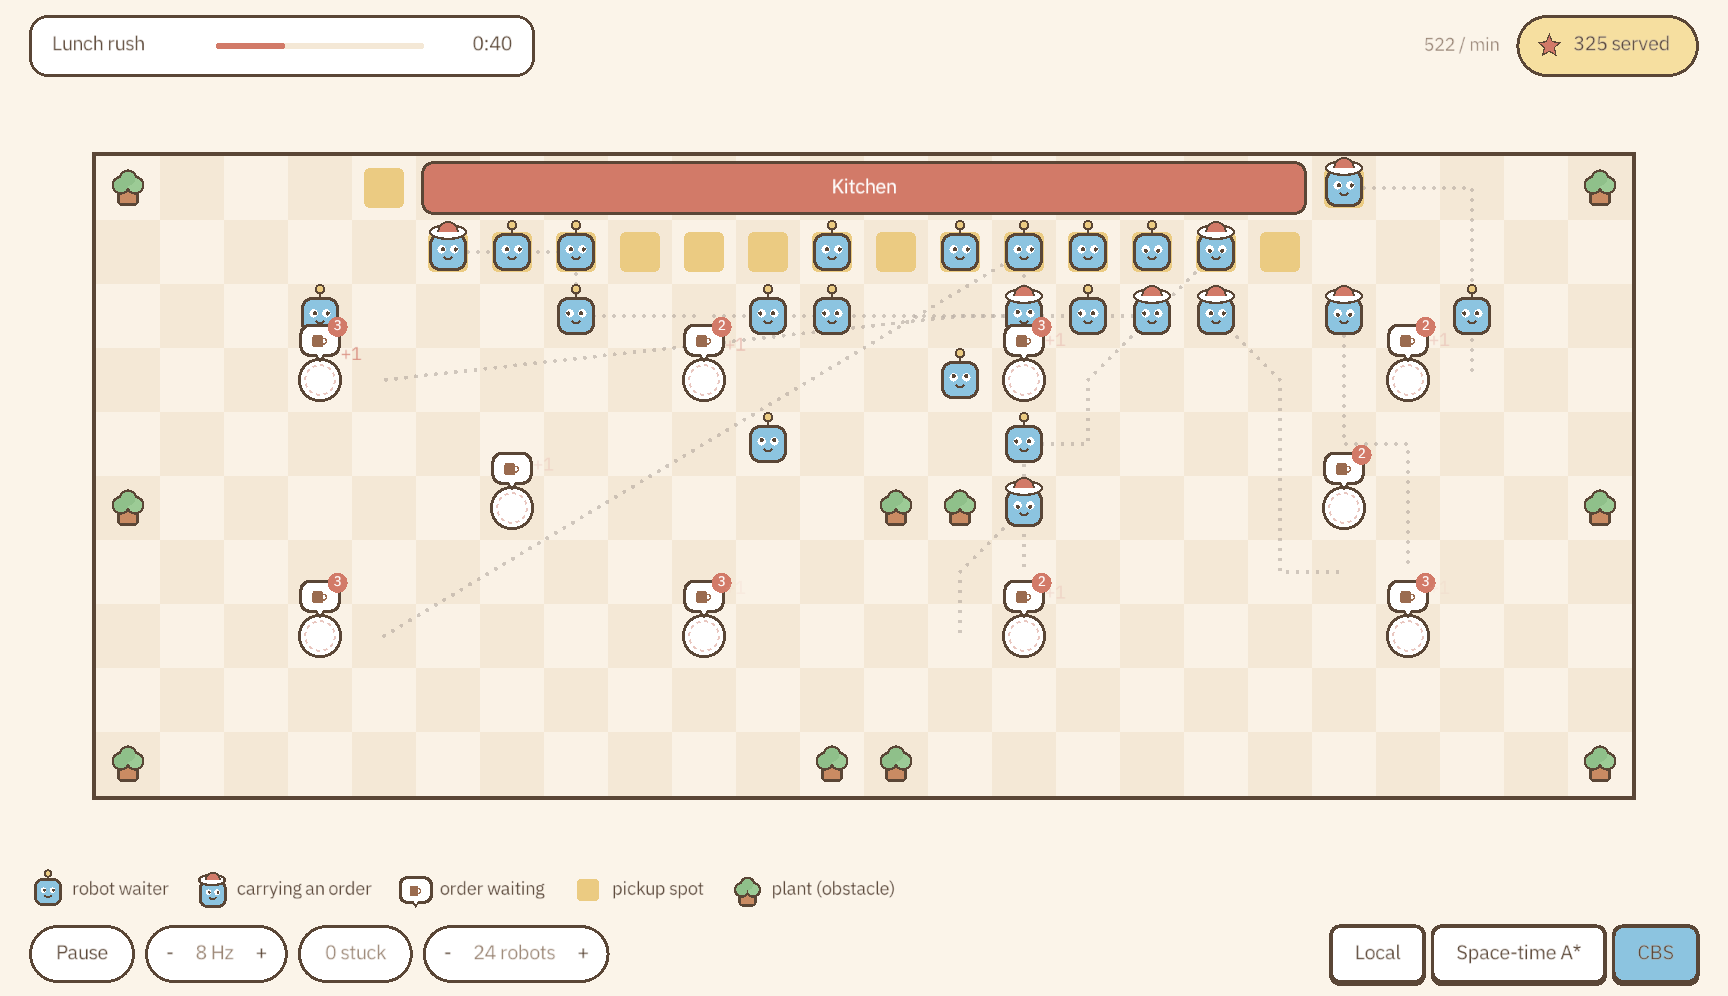
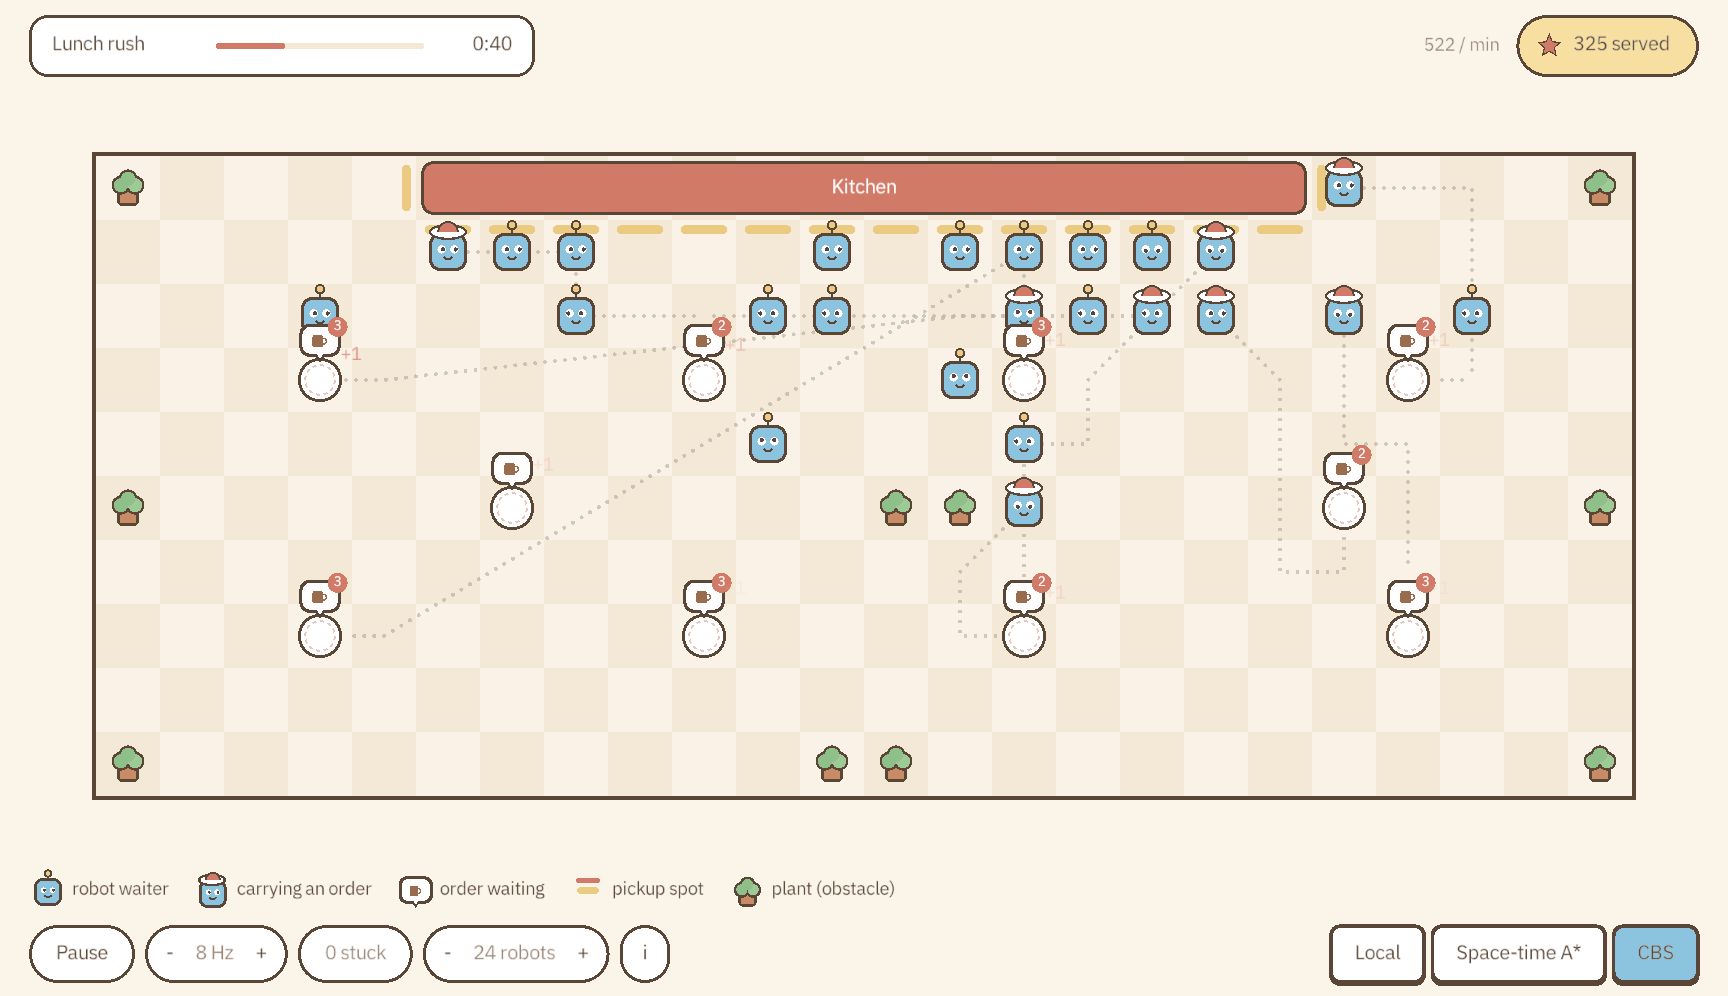
Point delivery lines at tables; thin pickup mats; add an intro card
Bug: a carrying robot's dotted line ended at its drop-off cell, the
floor beside the table, so lines pointed at empty squares. It now runs
to the drop-off cell and ends on the edge of the table it serves, facing
the robot, under the table's bubble.

Pickup spots are thin yellow mats along the edge that touches the
counter (vertical on the counter's two end cells) instead of full-cell
squares; the legend icon matches.

Intro card on launch (desktop and web): title, a short story, the
legend, one line per planner and a Start button over a dimmed, paused
cafe. Space, Enter or any click starts; the new 'i' pill reopens it.
Skipped for --record; --no-intro turns it off. The font now includes é.

diff --git a/apps/viewer.cpp b/apps/viewer.cpp
@@ -7,7 +7,8 @@
 //
 // Keys: space pause, +/- speed, up/down robot count, P cycle planner,
 // T show all planned paths. Every control is also clickable (mouse or
-// touch); hover or click a robot to see its planned path.
+// touch); hover or click a robot to see its planned path. An intro card
+// explains the scene on launch (skip with --no-intro); "i" reopens it.
 
 #include <algorithm>
 #include <cmath>
@@ -84,10 +85,11 @@ Font gFont{};
 
 // Given: an open window. Approach: rasterise the embedded TTF once at a size
 // big enough for the 2x GIF render, with bilinear filtering for the smaller
-// sizes we draw. ASCII is all the UI needs.
+// sizes we draw. ASCII plus the é in "Café".
 void loadUiFont() {
     std::vector<int> codepoints;
     for (int c = 32; c < 127; ++c) codepoints.push_back(c);
+    codepoints.push_back(0x00E9);
     gFont = LoadFontFromMemory(".ttf", kUiFontData, static_cast<int>(sizeof(kUiFontData)), 32, codepoints.data(),
                                static_cast<int>(codepoints.size()));
     SetTextureFilter(gFont.texture, TEXTURE_FILTER_BILINEAR);
@@ -113,6 +115,7 @@ struct Options {
     std::string recordPath;
     int recordFrames = 240;
     int recordFps = 30;
+    bool intro = true;
 };
 
 struct App {
@@ -125,6 +128,7 @@ struct App {
     std::vector<Rectangle> shelves;
     bool paused = false;
     bool showAllPaths = false;
+    bool showIntro = false;  // the intro card is up; the run waits behind it
     int selected = -1;  // robot id whose path stays visible, -1 for none
     double runTime = 0.0;  // seconds spent unpaused
     std::deque<std::pair<double, long long>> rateSamples;
@@ -187,7 +191,7 @@ void restart(App& a) {
     a.selected = -1;
 }
 
-enum class Action { None, Pause, Slower, Faster, FewerRobots, MoreRobots, Planner };
+enum class Action { None, Pause, Slower, Faster, FewerRobots, MoreRobots, Planner, Info };
 
 // A clickable (or label-only, Action::None) item. Items sharing a group
 // sit inside one pill; planner buttons have group -1 and draw as keys.
@@ -245,6 +249,8 @@ std::vector<Button> layoutButtons(const App& a) {
     std::snprintf(value, sizeof value, "%d robots", a.opt.robots);
     add(value, Action::None, true, 2);
     add("+", Action::MoreRobots, a.opt.robots < maxRobots(a), 9);
+    nextPill();
+    add("i", Action::Info, true, 10);
 
     // Planner buttons, right-aligned.
     x = static_cast<float>(a.width - kMargin);
@@ -294,6 +300,7 @@ void apply(App& a, Action act, int planner = -1) {
         case Action::FewerRobots: setRobots(a, a.opt.robots - 1); break;
         case Action::MoreRobots: setRobots(a, a.opt.robots + 1); break;
         case Action::Planner: setPlanner(a, planner); break;
+        case Action::Info: a.showIntro = true; break;
         case Action::None: break;
     }
 }
@@ -323,9 +330,14 @@ int robotAt(const App& a, Vector2 p) {
     return -1;
 }
 
-// Given: a click position. Approach: buttons first (same layout as drawn);
-// otherwise clicking a robot pins its path, clicking elsewhere unpins.
+// Given: a click position. Approach: with the intro card up, any click
+// starts the run. Otherwise buttons first (same layout as drawn), then
+// clicking a robot pins its path, clicking elsewhere unpins.
 void clickAt(App& a, Vector2 at) {
+    if (a.showIntro) {
+        a.showIntro = false;
+        return;
+    }
     for (const Button& b : layoutButtons(a)) {
         if (b.action != Action::None && b.enabled && CheckCollisionPointRec(at, b.rect)) {
             apply(a, b.action, b.planner);
@@ -341,6 +353,16 @@ void clickAt(App& a, Vector2 at) {
 // no button; desktop reports a mouse press as a touch too, hence the else).
 void handleInput(App& a) {
     auto pressed = [](int key) { return IsKeyPressed(key) || IsKeyPressedRepeat(key); };
+    if (a.showIntro && (IsKeyPressed(KEY_SPACE) || IsKeyPressed(KEY_ENTER) || IsKeyPressed(KEY_KP_ENTER))) {
+        a.showIntro = false;
+        return;
+    }
+    if (a.showIntro) {  // only a click (below) closes the card; other keys wait
+        if (IsMouseButtonPressed(MOUSE_BUTTON_LEFT) || (GetTouchPointCount() > 0 && a.prevTouches == 0))
+            clickAt(a, GetMousePosition());
+        a.prevTouches = GetTouchPointCount();
+        return;
+    }
     if (IsKeyPressed(KEY_SPACE)) apply(a, Action::Pause);
     if (pressed(KEY_EQUAL) || pressed(KEY_KP_ADD)) apply(a, Action::Faster);
     if (pressed(KEY_MINUS) || pressed(KEY_KP_SUBTRACT)) apply(a, Action::Slower);
@@ -368,7 +390,7 @@ void handleInput(App& a) {
 // positions so drawing can lerp prev -> cur by FixedTimestep::alpha(), note
 // which way each robot moved, and catch deliveries for the pop.
 void update(App& a, double frameSeconds) {
-    if (a.paused) return;
+    if (a.paused || a.showIntro) return;
     a.runTime += frameSeconds;
     a.timestep.advance(frameSeconds, [&] {
         a.prev = a.cur;
@@ -437,8 +459,15 @@ void drawTable(Vector2 c) {
     }
 }
 
-void drawMat(Vector2 c, float size) {
-    DrawRectangleRounded({c.x - size / 2, c.y - size / 2, size, size}, 0.3f, 6, kMat);
+// A thin yellow mat along one edge of a cell: `toward` is the side the
+// counter is on, so the mat hugs the counter.
+void drawMat(Vector2 c, float length, Cell toward) {
+    const float thick = std::max(3.0f, length * 0.2f), off = kCell * 0.5f - thick / 2 - 2.5f;
+    const bool across = toward.y != 0;  // counter above/below: a horizontal strip
+    const Vector2 m{c.x + toward.x * off, c.y + toward.y * off};
+    const Rectangle r = across ? Rectangle{m.x - length / 2, m.y - thick / 2, length, thick}
+                               : Rectangle{m.x - thick / 2, m.y - length / 2, thick, length};
+    DrawRectangleRounded(r, 1.0f, 6, kMat);
 }
 
 // White plate with a coral dish on it, about `w` wide.
@@ -523,6 +552,70 @@ void drawPill(Rectangle r) {
     DrawRectangleRounded(r, 1.0f, 12, kWhite);
 }
 
+// Legend: tiny drawn icons with small brown labels on one line. Returns
+// the width it takes; with draw = false it only measures.
+float drawLegend(float x, float y, bool draw = true) {
+    const float start = x;
+    auto item = [&](auto icon, const char* label) {
+        if (draw) {
+            icon(Vector2{x, y});
+            text(label, x + 12, y - 7, 12, kLine);
+        }
+        x += 12 + measure(label, 12) + 22;
+    };
+    item([&](Vector2 c) { drawRobot({c.x, c.y + 1}, false, Cell{1, 0}, 11); }, "robot waiter");
+    item([&](Vector2 c) { drawRobot({c.x, c.y + 2}, true, Cell{1, 0}, 11); }, "carrying an order");
+    item([&](Vector2 c) { drawBubble({c.x, c.y + kCell * 0.62f}, 0.8f, 1.0f, 0); }, "order waiting");
+    item([&](Vector2 c) {
+        DrawRectangleRounded({c.x - 6, c.y - 6, 12, 2.5f}, 1.0f, 4, kCounter);
+        DrawRectangleRounded({c.x - 5.5f, c.y - 1.5f, 11, 3.5f}, 1.0f, 4, kMat);
+    }, "pickup spot");
+    item([&](Vector2 c) { drawPlant({c.x, c.y + 1}, 14); }, "plant (obstacle)");
+    return x - 22 - start;
+}
+
+// Given: the scene drawn behind. Approach: dim it, then a white card with
+// the title, what's going on, the legend, one line per planner and a Start
+// button. Any click, Space or Enter starts (see handleInput / clickAt).
+void drawIntro(const App& a) {
+    DrawRectangle(0, 0, a.width, a.height, withAlpha(kLine, 0.28f));
+    const float w = 560, h = 292;
+    const Rectangle card{(a.width - w) / 2, (a.height - h) / 2, w, h};
+    outlinedRect(card, 12, kWhite);
+    float x = card.x + 28, y = card.y + 22;
+    text("Rush Hour Caf\u00e9", x, y, 24, kLine);
+    y += 38;
+    const char* story[] = {
+        "It's lunch rush. Robot waiters carry orders from the kitchen to hungry tables.",
+        "The hard part isn't one robot; it's dozens sharing narrow aisles without",
+        "colliding or getting stuck.",
+    };
+    for (const char* line : story) {
+        text(line, x, y, 13, kLine);
+        y += 19;
+    }
+    y += 14;
+    drawLegend(card.x + (w - drawLegend(0, 0, false)) / 2 + 6, y + 6);
+    y += 30;
+    const char* planners[][2] = {
+        {"Local:", "each robot just avoids its neighbours"},
+        {"Space-time A*:", "robots book their path in time, one by one"},
+        {"CBS:", "robots are planned together, resolving conflicts"},
+    };
+    for (const auto& p : planners) {
+        text(p[0], x, y, 13, kCounter);
+        text(p[1], x + 104, y, 13, kLine);
+        y += 20;
+    }
+    const std::string start = "Start";
+    const float bw = measure(start, 14) + 36;
+    const Rectangle btn{card.x + w - 28 - bw, card.y + h - 50, bw, 28};
+    DrawRectangleRounded({btn.x - 1.8f, btn.y - 1.8f, btn.width + 3.6f, btn.height + 4.8f}, 0.35f, 8, kLine);
+    DrawRectangleRounded(btn, 0.32f, 8, kRobot);
+    text(start, btn.x + (bw - measure(start, 14)) / 2, btn.y + 6, 14, kLine);
+    text("Try switching planners while it runs.", x, btn.y + 7, 12, kLineSoft);
+}
+
 // Given: current state. Approach: draw the scene in window coordinates; the
 // caller decides the target (screen, or an offscreen texture for recording).
 void drawScene(const App& a) {
@@ -551,7 +644,17 @@ void drawScene(const App& a) {
             if (wallAt(1, 0)) DrawRectangleRec({px + kCell, py - kFrame, kFrame, kCell + 2 * kFrame}, kLine);
         }
     }
-    for (Cell f : g.pickFaces()) drawMat(at(f), kCell * 0.62f);
+    for (Cell f : g.pickFaces()) {
+        Cell toward{0, -1};
+        for (Cell d : ww::kNeighbors) {
+            const Cell n{f.x + d.x, f.y + d.y};
+            if (g.inBounds(n) && g.at(n) == ww::Tile::Shelf) {
+                toward = d;
+                break;
+            }
+        }
+        drawMat(at(f), kCell * 0.72f, toward);
+    }
     for (const Rectangle& r : a.shelves) {
         outlinedRect(r, 5.0f, kCounter);
         const std::string label = "Kitchen";
@@ -584,9 +687,23 @@ void drawScene(const App& a) {
         if (!reached) pts.push_back(at(target));
         return pts;
     };
+    // A carrying robot's line goes to its drop-off cell and then ends on the
+    // edge of the table it serves, facing the robot, under the bubble.
+    auto toTable = [&](const ww::RobotView& r) {
+        std::vector<Vector2> pts = pathTo(r, r.dropoff);
+        const Cell table = tableOf(g, r.dropoff);
+        if (!(table == r.dropoff)) {
+            const Vector2 t = at(table), from = pts.back();
+            const float dx = from.x - t.x, dy = from.y - t.y, len = std::max(1.0f, std::hypot(dx, dy));
+            const float rim = kCell * 0.3f + 3.0f;
+            pts.push_back({t.x + dx / len * rim, t.y + dy / len * rim});
+        }
+        return pts;
+    };
     for (const ww::RobotView& r : robots) {
-        if (a.showAllPaths || r.id == hovered || r.id == a.selected) drawDottedPath(pathTo(r, r.goal), withAlpha(kLine, 0.7f));
-        else if (r.carrying) drawDottedPath(pathTo(r, r.dropoff), withAlpha(kLine, 0.35f));
+        if (a.showAllPaths || r.id == hovered || r.id == a.selected)
+            drawDottedPath(r.carrying ? toTable(r) : pathTo(r, r.goal), withAlpha(kLine, 0.7f));
+        else if (r.carrying) drawDottedPath(toTable(r), withAlpha(kLine, 0.35f));
     }
     for (const ww::RobotView& r : robots) {
         const auto id = static_cast<std::size_t>(r.id);
@@ -633,19 +750,7 @@ void drawScene(const App& a) {
     std::snprintf(rate, sizeof rate, "%.0f / min%s", deliveriesPerMinute(a), a.paused ? "  (paused)" : "");
     text(rate, badge.x - 10 - measure(rate, 12), badge.y + 7, 12, kLineSoft);
 
-    // Legend under the floor: tiny drawn icons, one line of small brown text.
-    const float ly = static_cast<float>(kHudH + a.gridH + kLegendH / 2 + 2);
-    float lx = kMargin + 8;
-    auto item = [&](auto icon, const char* label) {
-        icon(Vector2{lx, ly});
-        text(label, lx + 12, ly - 7, 12, kLine);
-        lx += 12 + measure(label, 12) + 22;
-    };
-    item([&](Vector2 c) { drawRobot({c.x, c.y + 1}, false, Cell{1, 0}, 11); }, "robot waiter");
-    item([&](Vector2 c) { drawRobot({c.x, c.y + 2}, true, Cell{1, 0}, 11); }, "carrying an order");
-    item([&](Vector2 c) { drawBubble({c.x, c.y + kCell * 0.62f}, 0.8f, 1.0f, 0); }, "order waiting");
-    item([&](Vector2 c) { drawMat(c, 11); }, "pickup spot");
-    item([&](Vector2 c) { drawPlant({c.x, c.y + 1}, 14); }, "plant (obstacle)");
+    drawLegend(kMargin + 8, static_cast<float>(kHudH + a.gridH + kLegendH / 2 + 2));
 
     // Bottom: pills on the left, planner keys on the right.
     const std::vector<Button> buttons = layoutButtons(a);
@@ -673,6 +778,7 @@ void drawScene(const App& a) {
         const Color c = !b.enabled ? withAlpha(kLine, 0.3f) : (b.action == Action::None ? kLineSoft : kLine);
         text(b.label, tx, ty, kButtonText, hover && b.group >= 0 ? kCounter : c);
     }
+    if (a.showIntro) drawIntro(a);
 }
 
 void draw(const App& a) {
@@ -745,7 +851,7 @@ std::string loadMap(const std::string& path) {
 
 [[noreturn]] void usage(int code) {
     std::cout << "usage: viewer [--robots N] [--seed S] [--hz 2|4|8|15|30|60|120] [--map FILE|cafe|warehouse]\n"
-                 "              [--planner local|stastar|cbs] [--record OUT.gif [--frames N] [--fps N]]\n";
+                 "              [--planner local|stastar|cbs] [--no-intro] [--record OUT.gif [--frames N] [--fps N]]\n";
     std::exit(code);
 }
 
@@ -773,6 +879,7 @@ Options parseArgs(int argc, char** argv) {
             else if (arg == "--record") o.recordPath = next();
             else if (arg == "--frames") o.recordFrames = std::stoi(next());
             else if (arg == "--fps") o.recordFps = std::clamp(std::stoi(next()), 1, 50);
+            else if (arg == "--no-intro") o.intro = false;
             else if (arg == "-h" || arg == "--help") usage(0);
             else usage(1);
         } catch (const std::logic_error&) {
@@ -805,6 +912,7 @@ int main(int argc, char** argv) {
     a.height = kHudH + a.gridH + kLegendH + kFooterH;
     a.gridX = (a.width - g.width() * kCell) / 2;
     a.shelves = shelfBlocks(g, a.gridX);
+    a.showIntro = a.opt.intro && a.opt.recordPath.empty();
 
     SetConfigFlags(FLAG_MSAA_4X_HINT | FLAG_VSYNC_HINT);
     SetTraceLogLevel(LOG_WARNING);

diff --git a/docs/VISION.md b/docs/VISION.md
@@ -29,7 +29,7 @@ small shapes with room around them, no shadows or gradients.
 |---|---|
 | Lines | soft brown `#5A4636`, ~1.5 px (2 px for the floor frame) |
 | Page / floor | `#FBF4E9` / a very faint checker `#FAF2E6` and `#F4E8D6` |
-| Kitchen counter | muted coral `#D27A68` with "Kitchen" in white; pickup mats `#EBCB82` |
+| Kitchen counter | muted coral `#D27A68` with "Kitchen" in white; pickup spots are thin `#EBCB82` mats along its edge |
 | Tables | white, thin outline, faint dashed rim `#E9C7C0`, ~60% of a cell |
 | Plants | leaves `#8FC08A` / `#9CCB96`, pots `#C98B63`, ~55% of a cell |
 | Robots | dusty blue `#8CC4E0`, ~50% of a cell |
@@ -41,7 +41,8 @@ small shapes with room around them, no shadows or gradients.
   top, about the robot's width, and no antenna.
 - **Orders:** a small white speech bubble with a brown cup above a table
   with a waiting order, and a small coral number badge for more than one.
-- **Flow:** every carrying robot has a faint dotted brown line to its table.
+- **Flow:** every carrying robot has a faint dotted brown line that ends at
+  the edge of the table it's serving, under that table's bubble.
   Hover or click a robot, or press T, for full planned paths.
 - **Delivery:** the bubble pops away and a small "+1" floats up.
 - **Legend:** one line under the floor with a tiny drawn icon for robot
@@ -50,7 +51,12 @@ small shapes with room around them, no shadows or gradients.
   left, a pale yellow "★ N served" badge on the right. Along the bottom,
   small pills (pause, speed, "N stuck", "N robots") and planner buttons with
   a 1.8 px outline and a thicker bottom edge; the active one is filled blue.
+- **Intro card:** on launch, a white card over the dimmed, paused café:
+  the title, a short story, the legend, one line per planner and a Start
+  button. The "i" pill reopens it.
 - Font: IBM Plex Sans (SIL Open Font License), committed in `assets/fonts/`.
+
+![The intro card](intro.png)
 
 ## Game loop
 

diff --git a/README.md b/README.md
@@ -50,19 +50,25 @@ hash) on the first run.
 ```sh
 cmake -S . -B build -DWW_VIEWER=ON
 cmake --build build -j
-./build/viewer                           # the café, 16 robots
+./build/viewer                           # the café, 16 robots (starts with an intro card)
+./build/viewer --no-intro                # straight into the run
 ./build/viewer --robots 32 --hz 15 --seed 3 --planner cbs
 ./build/viewer --map warehouse           # the benchmark map, same theme
 ./build/viewer --robots 24 --planner cbs --record docs/viewer.gif --frames 125 --fps 15  # the GIF above
 ```
 
+On launch an intro card explains the scene and the three planners; Start
+(or Space, Enter, any click) begins the run, and the "i" pill reopens it.
+
 How to read it (the legend under the floor says the same):
 - A blue robot with an antenna is heading to the kitchen; one with a plate
-  on top is carrying an order, and a faint dotted line leads to its table.
+  on top is carrying an order, and a faint dotted line leads to the table
+  it's serving.
 - A speech bubble with a cup over a table is an order waiting there; a coral
   badge counts several. When it's delivered, the bubble pops and a "+1"
   floats up.
-- Yellow mats under the counter are the pickup spots; plants are obstacles.
+- Thin yellow mats along the counter mark the pickup spots; plants are
+  obstacles.
 - Hover or click a robot to see its full planned path; <kbd>T</kbd> shows
   every robot's path.
 
